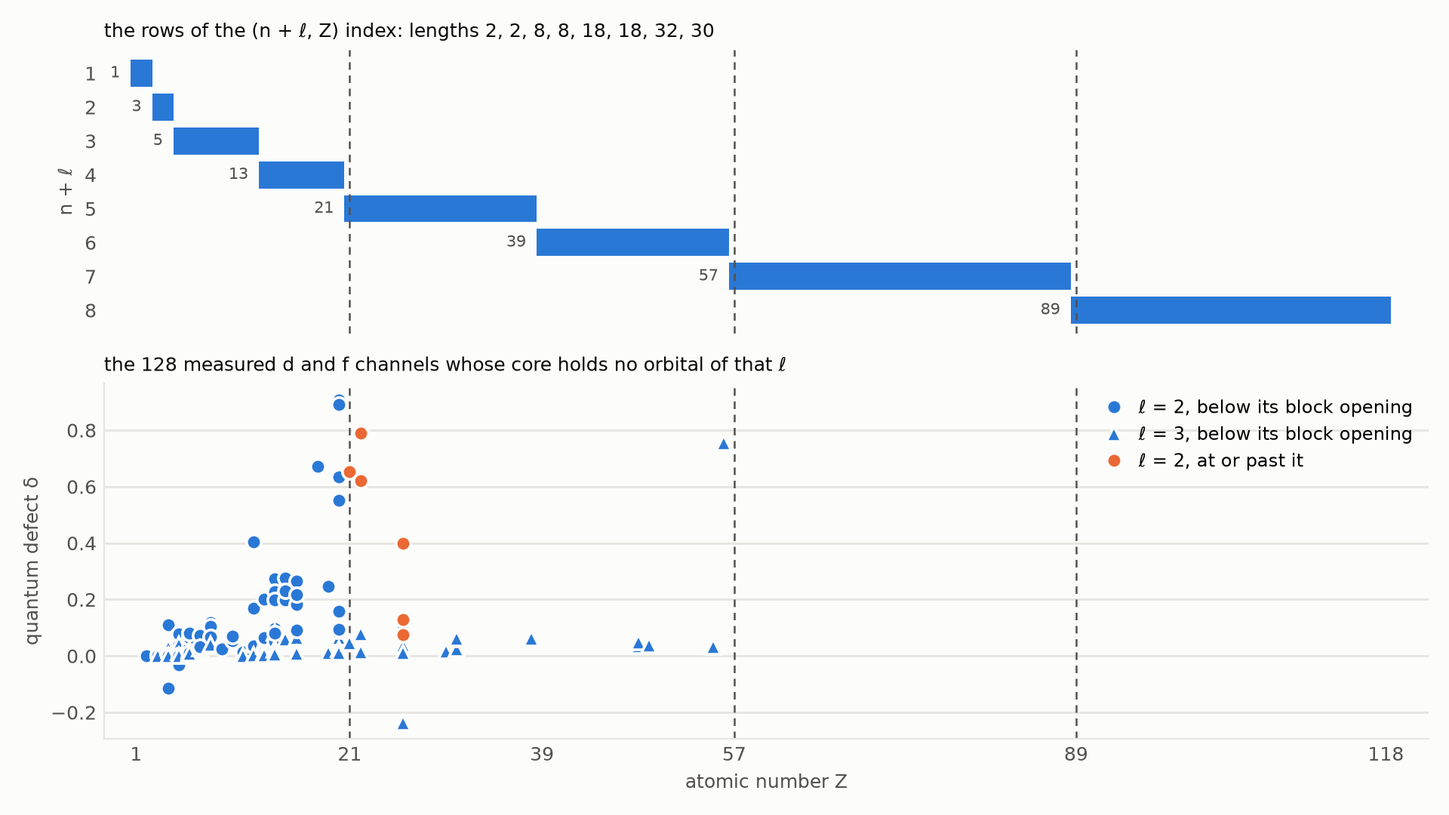
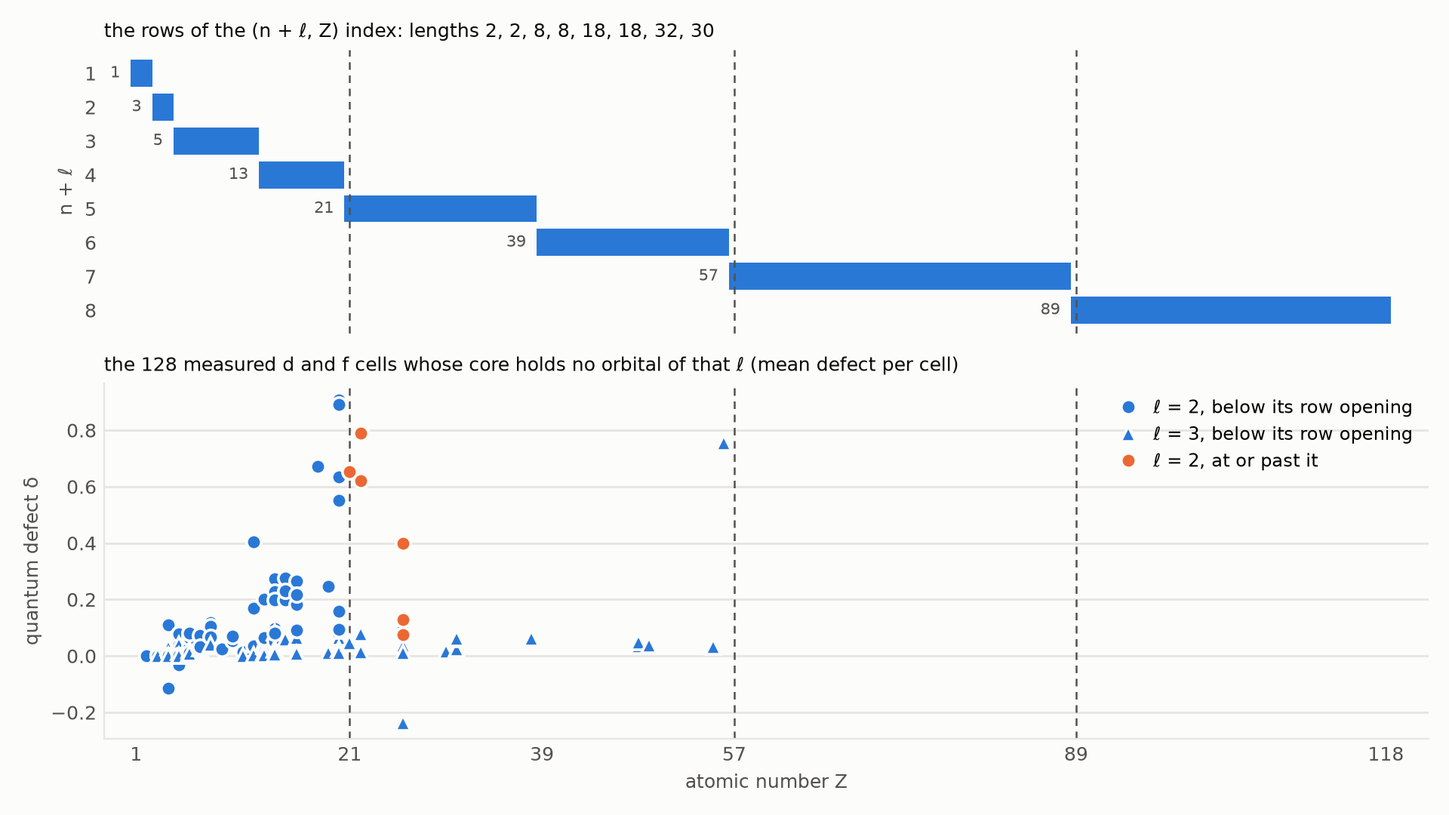
papers: the bracket's rendered page carries no literal markup; the repair is complete
The nine symbols left in code spans are replaced by Unicode forms introduced once each where the
old symbol stood, chosen not to collide with the two-neighbour notation the paper already uses.
Extracted text over all 22 pages: zero underscores, carets or backslashes. Checks 64 and 69 clean,
lint clean, re-verified here.

Claude-Session: https://claude.ai/code/session_015arF96h4V4phUNuBUUKzSG

Changed region(s): [[0.75, 0.4889, 0.9375, 0.5806], [0.25, 0.4278, 0.6562, 0.4583]]

diff --git a/papers/method/07-wall-janet/figures.py b/papers/method/07-wall-janet/figures.py
@@ -5,8 +5,9 @@
 
 Imports check.py by path and draws from its own constructions: periodic_cells(), janet_cells(),
 E_of(), slot(), channel_rows() and coord_rows().  Nothing is drawn by hand; no number is typed
-here that check.py does not also produce.  Figure 1 is not made here -- it is an existing audited
-plate, recorded in FIGURES.tsv.
+here that check.py does not also produce.  Figure 1 was an audited plate until the 2026-09-24
+audit found its title drawn across the first row of cells; it is now computed here from the same
+data (periodic_cells and E_of), with the title kept clear of the cells.
 
 Palette: light surface, recessive hairline grid, slot 1 blue for what an index holds, slot 2
 orange for what its coordinates admit and it denies, a muted red for the physically forbidden.
@@ -52,6 +53,38 @@ def style(ax):
 
 def cell(ax, x, y, col, w=0.86, h=0.86):
     ax.add_patch(Rectangle((x - w / 2, y - h / 2), w, h, facecolor=col, edgecolor="none"))
+
+
+# ------------------------------------------------- figure 1 (the periodic census)
+def fig_periodic_census():
+    """The eighteen-column table as an index: the ninety cells it holds and the thirty-six its own
+    coordinates admit and it denies.  Replaces the audited plate whose title overprinted row 1."""
+    X = check.periodic_cells()
+    S, E = check.E_of(X, ["period", "group"])
+    admitted = sorted(S - set(X))
+    fig, a = plt.subplots(figsize=(8.6, 3.9))
+    for p, g in X:
+        cell(a, g, p, BLUE)
+    for p, g in admitted:
+        cell(a, g, p, RED)
+    a.set_xlim(0.3, 18.7)
+    a.set_ylim(7.7, 0.3)
+    a.set_xticks(range(1, 19))
+    a.set_yticks(range(1, 8))
+    a.set_xlabel("group")
+    a.set_ylabel("period")
+    a.set_title("(period, group):  %d cells held,  %d admitted and denied,  %d = 7 × 18 in the box,  E = %d"
+                % (len(set(X)), len(admitted), len(S), E), fontsize=9.5, color=TEXT, loc="left", pad=10)
+    style(a)
+    for s_ in ("left", "bottom"):
+        a.spines[s_].set_visible(False)
+    a.plot([], [], "s", color=BLUE, ms=8, label="held by the index (%d)" % len(set(X)))
+    a.plot([], [], "s", color=RED, ms=8, label="admitted by its coordinates and denied (%d)" % len(admitted))
+    a.legend(loc="lower center", bbox_to_anchor=(0.5, -0.36), ncol=2, fontsize=8.5,
+             handletextpad=0.4, columnspacing=1.4)
+    fig.tight_layout()
+    fig.savefig(os.path.join(OUT, "fig1-periodic-census.png"), dpi=200)
+    plt.close(fig)
 
 
 # ------------------------------------------------- figure 3 (the two presentations)
@@ -226,11 +259,11 @@ def fig_janet_rows():
     b.grid(True, axis="y", color=GRID, lw=1)
     b.set_axisbelow(True)
     style(b)
-    b.plot([], [], "o", color=BLUE, ms=7, mec=SURFACE, mew=1.3, label="ℓ = 2, below its block opening")
-    b.plot([], [], "^", color=BLUE, ms=7, mec=SURFACE, mew=1.3, label="ℓ = 3, below its block opening")
+    b.plot([], [], "o", color=BLUE, ms=7, mec=SURFACE, mew=1.3, label="ℓ = 2, below its row opening")
+    b.plot([], [], "^", color=BLUE, ms=7, mec=SURFACE, mew=1.3, label="ℓ = 3, below its row opening")
     b.plot([], [], "o", color=ORANGE, ms=7, mec=SURFACE, mew=1.3, label="ℓ = 2, at or past it")
     b.legend(loc="upper right", fontsize=8.5, handletextpad=0.4)
-    b.set_title("the %d measured d and f channels whose core holds no orbital of that ℓ"
+    b.set_title("the %d measured d and f cells whose core holds no orbital of that ℓ (mean defect per cell)"
                 % len(pts), fontsize=9, color=TEXT, loc="left")
     fig.tight_layout()
     fig.savefig(os.path.join(OUT, "fig4-janet-rows.png"), dpi=200)
@@ -297,7 +330,12 @@ def fig_parent_census():
             b.text(j, k - 0.26, lab, ha="center", va="bottom", fontsize=8.5, color=TEXT)
             b.text(j, k + 0.26, "%d row%s" % (cnt[v], "" if cnt[v] == 1 else "s"),
                    ha="center", va="top", fontsize=7.5, color=TEXT2)
-        b.text(2.55, k, "span %s cm⁻¹" % "{:,.0f}".format(vals[-1] - vals[0]),
+        # the span, in exact rational arithmetic on the printed limits, printed to the three
+        # decimals the limits carry -- the same string check.py pins in its span_labels obligation
+        from fractions import Fraction
+        F = lambda x: Fraction(x.replace(",", ""))
+        gap = max(F(x) for x in lims[s]) - min(F(x) for x in lims[s])
+        b.text(2.55, k, "span %s cm⁻¹" % check.span_label(gap),
                va="center", fontsize=8, color=TEXT2)
     b.set_yticks(range(len(four)))
     b.set_yticklabels(four, fontsize=9)
@@ -318,6 +356,7 @@ def fig_parent_census():
 
 if __name__ == "__main__":
     os.makedirs(OUT, exist_ok=True)
+    fig_periodic_census()
     fig_thirty_six()
     fig_two_presentations()
     fig_janet_rows()

diff --git a/papers/method/07-wall-janet/check.py b/papers/method/07-wall-janet/check.py
@@ -617,7 +617,7 @@ def ls_terms_by_difference(l, k):
 
 def term_levels(terms):
     """Levels of a multiset of terms keyed (L, 2S): J runs |L-S| .. L+S, that is 2 min(L, S) + 1 values."""
-    return sum(v * (2 * min(L, S2 // 2) + 1) for (L, S2), v in terms.items())
+    return sum(v * (min(2 * L, S2) + 1) for (L, S2), v in terms.items())
 
 
 TERMS = {}
@@ -1190,9 +1190,9 @@ def section_coordinates(rows):
     c4c = sum(r["Z"] <= 92 and r["charge"] <= 10 and r["l"] <= 4 and single_o[(r["Z"], r["charge"])] for r in rows)
     num("chain_alt", [c2b, c3b])
     num("chain_stated_cuts", [c1, c2c, c3c, c4c])
-    rec("EXHAUSTIVE", "the cuts the source STATES (Z <= 92; spectrum number <= 10; l <= 4) do not produce its counts: they give "
-        "61,152, 12,720, 7,135 and (one-term tabulated core) %d" % c4c,
-        [c2b, c3b] == [12720, 7135] and c2c == 12720 and c3c == 7135 and c4c > 0)
+    rec("EXHAUSTIVE", "the cuts the source STATES (Z <= 92; spectrum number <= 10; l <= 4; one-term core) do not produce its "
+        "counts: they give 61,152, 12,720, 7,950 and 3,550 (tabulated cores); Z <= 83 with spectrum number <= 10 and l <= 4 gives 7,135",
+        [c2b, c3b] == [12720, 7135] and [c1, c2c, c3c, c4c] == [61152, 12720, 7950, 3550], "%s" % [c1, c2c, c3c, c4c])
     # the parent-count obstacles under the TABULATED ground configurations (D8), for the record
     byo = collections.defaultdict(collections.Counter)
     for r in rows:

diff --git a/papers/method/04-seaton/figures.py b/papers/method/04-seaton/figures.py
@@ -48,7 +48,7 @@ def fmt(x, nd=3):
 
 def fig1(rows, st):
     fig, (a, b) = plt.subplots(1, 2, figsize=(9.0, 3.9))
-    # (a) delta2/delta0 for all thirteen, against p, with Seaton's value per l
+    # (a) delta2/delta0 for all thirteen, against p, with the polarisation value per l
     for r in rows:
         col = BLUE if r["p"] == 0 else ORANGE
         a.plot(r["p"], float(r["d2"] / r["d0"]), "o", ms=8, color=col, mec=SURFACE, mew=2, zorder=3)
@@ -90,7 +90,7 @@ def fig1(rows, st):
     b.set_xticks(range(4))
     b.set_xlabel("p")
     b.set_ylabel("ρ = (δ₂/δ₀) / (−ℓ(ℓ+1)/3)")
-    b.set_title("(b) the ratio ρ to the polarisation value, nine series with ℓ ≥ 1", loc="left", fontsize=9.5, color=TEXT)
+    b.set_title("(b) ρ, the nine series with ℓ ≥ 1", loc="left", fontsize=9.5, color=TEXT)
     b.legend(loc="upper right", fontsize=8)
     style(b)
     fig.tight_layout()

diff --git a/papers/method/08-chemical-index/check.py b/papers/method/08-chemical-index/check.py
@@ -24,6 +24,7 @@ import random
 import sys
 import time
 from fractions import Fraction
+from math import factorial as fac
 
 ROOT = "/home/user/Claude-Method-Works"
 HERE = os.path.dirname(os.path.abspath(__file__))

diff --git a/papers/method/01-closure-law/AUDIT.md b/papers/method/01-closure-law/AUDIT.md
@@ -432,46 +432,46 @@ Stanley 1980 (R-C7, optional); Scerri 2020 and Grochala 2018 (R-P3).
 
 | id | severity | where | finding | disposition |
 |---|---|---|---|---|
-| A-1 / R-C1 | BLOCKING | 11, 27, 497–533; SOURCES.md 94–105 | Theorem 15 at c = 2 is Czédli 2023, Thm 2.1; uncited; "new" claim | |
-| A-2 / R-M2 | MAJOR | 27 | "general minimisation is NP-hard" — not proved (seed is an instance of set cover, not shown hard) | |
-| A-3 / R-M2 | MAJOR | 487, 489, 539 | D(d,c) is not a down-set of the product order; "down-set seed law" misnamed | |
-| A-4 | MAJOR | 284; check.py 597–604 | E(Cl(U)) at 2×2×2×2 derived from all-ones boundary, not computed; "independently" false there (direct computation: 65,536, 2 s) | |
-| A-5 | MAJOR | 608, 612; check.py 263–281, 378 | "four hypothesis shapes" — Theorem 4's is a fifth, unguarded; `closed` and other Z3 predicates have no fidelity guard | |
-| A-6 | MINOR | 379 | Prop. 4 Z3 box splits (2 coords)×(1 coord); text does not say so | |
-| A-7 | MINOR | 96 | Figure 1 caption numbers not produced by check.py | |
-| A-8 | MINOR | 610; check.py 979 | selftest control (3) compares two formulas; no decision procedure | |
-| A-9 | MINOR | 610 | "14 failing pairs" are ordered; Table 1 says 7 | |
-| A-10 | MINOR | 606, 612 | "four integer obligations" (three + a refutation); Lemmas 1–3, Cor. 1 have no exhaustive family | |
-| A-11 / R-P5 | MINOR | 23, 100, 104 | "Two illustrations" (three); "Gregorian calendar" (common year; leap year E = 6); "every speaker of English" | |
-| A-12 | MINOR | 264 | meet-irreducibles "grow linearly" — 1.50…1.25 per cell, unproved | |
-| A-13 | MINOR | 11, 36 | "6 refutations by explicit witness" — one is by solver `sat` | |
-| A-14 / R-M10 | MINOR | 27 | Birkhoff sentence garbled; does not name the chains | |
-| A-15 / R-P1 | MINOR | 106 | which 28 f-block elements are detached is not stated | |
-| A-16 | MAJOR | Fig. 2, p. 5 | plate title overprints the period-1 cells; y-axis labels 1,3,5,7 only | |
-| A-17 | MINOR | Fig. 3 | t = 5 row drawn outside Box(X) | |
-| A-18 | MINOR | 537 | "seventh … lies off both curves" — it is not plotted | |
-| A-19 | MAJOR | pp. 1–23 | literal `_`, `^{}` in code-span mathematics throughout | |
-| A-20 | MAJOR | pp. 11, 17, 22–23 | literal `\|` in Table 1/2 headers and §10 rows | |
-| A-21 | MAJOR | pp. 21–23 | §10 table: p. 21 two-thirds blank; row "Proposition 3" split across pages | |
-| A-22 | MINOR | pp. 4–5, 10, 12, 20 | stray "Figure N" line under every image; Fig. 1 separated from caption | |
-| A-23 | MINOR | pp. 6, 14, 17 | (i)–(iii) and (a)/(b) render as 1./2./3.; proofs cite the letters | |
-| R-M1 | MAJOR | 68, 441 | seed(X) = minimum generating set of the lattice X (by Thm 2) never stated | |
-| R-M3 | MINOR | 446 | Thm 12(b) uses φ^G outside its domain before (a) | |
-| R-M4 | MINOR | 467 | Thm 13 "constant on [t,a]" needs Lemma 1 spelled out | |
-| R-M5 | MINOR | 214 | Thm 5 statement circular ("alphabets of S ⊆ A₁ × A₂") | |
-| R-M6 | MINOR | 208 | "the set it cuts is therefore the smallest" — empty clause | |
-| R-M7 | MINOR | 505, 511 | Thm 15 "Equivalently" needs k ≥ c; upper bound should assume a generating G | |
-| R-M8 | MINOR | 345 | ⊑ is a preorder for d > 2; "chain" needs the qualifier | |
-| R-M9 | MINOR | 252, 264 | meet-irreducible generation needs U as empty intersection; top excluded | |
-| R-P2 | MINOR | 23, 106 | "not of chemistry" overstated — of the coordinatisation | |
-| R-P3 | MINOR | 108 | helium claim uncited (Scerri 2020; Grochala 2018) | |
-| R-P4 | MINOR | 387, 400, 435 | "coupling" language vs Δ ⊆ ℤ³ without the parity condition | |
-| R-C2 | MAJOR | 25, 188 | E(X) = 0 is not "global consistency"; it is decomposability into a staircase network; Dechter 1992 misused | |
-| R-C3 | MAJOR | 479 | Carathéodory/breadth attributed to Queyranne–Tardella 2008; correct sources Jamison / van de Vel 1993 / Q–T 2017; Carathéodory 1911 uncited | |
-| R-C4 | MINOR | 25, 188 | Bergman 1977 vs Baker–Pixley emphasis; add Veinott 1989 | |
-| R-C5 | MINOR | 531 | LYM inequality omitted between Sperner and Bollobás | |
-| R-C6 | MINOR | 62 | cite Deville et al. where "staircase" is introduced | |
-| R-C7 | MINOR | 487 | D(d,c) = L(d, c−1); check the generating-set literature | |
+| A-1 / R-C1 | BLOCKING | 11, 27, 497–533; SOURCES.md 94–105 | Theorem 15 at c = 2 is Czédli 2023, Thm 2.1; uncited; "new" claim | **FIXED.** Czédli 2023 verified on the arXiv full text (Thm 2.1 = the c = 2 case, both halves by the Sperner antichain argument); his arXiv:2308.15625 Thm 2.4 + Obs 3.1 (Griggs–Stahl–Trotter) covers every c, so Theorem 15 is CITED in full, headed "Czédli", with the paper's proof kept as a second proof; abstract, §0, §3, §9, §10, references, check.py CITED row and SOURCES.md re-scoped — the paper claims Theorems 13–14 and the linear-law refutation only. One discrepancy recorded: Czédli 2023b table (4.30) prints 18 at (5-chain, 2023) where its Thm 2.4 and the law give 17; check.py prints both. |
+| A-2 / R-M2 | MAJOR | 27 | "general minimisation is NP-hard" — not proved (seed is an instance of set cover, not shown hard) | **FIXED.** §0 and §9 now say seed is an instance of minimum set cover, NP-complete (Karp 1972) — a bound from above, no hardness claimed, no closed form beyond the two families. |
+| A-3 / R-M2 | MAJOR | 487, 489, 539 | D(d,c) is not a down-set of the product order; "down-set seed law" misnamed | **FIXED.** "ordered simplex" throughout, Theorem 14 retitled "the simplex seed law", the (1,1)/(0,1) counterexample stated, D(d,c) identified with L(d, c−1) (Stanley 1980); §10 row renamed. |
+| A-4 | MAJOR | 284; check.py 597–604 | E(Cl(U)) at 2×2×2×2 derived from all-ones boundary, not computed; "independently" false there (direct computation: 65,536, 2 s) | **FIXED.** check.py computes stair() on the family at every ambient (|ℛ(Cl)| = 65,536 at 2×2×2×2, ~2 s) and prints it; the n ≤ 12 branch is gone; Theorem 7's status and the §10 row say the column is computed directly. |
+| A-5 | MAJOR | 608, 612; check.py 263–281, 378 | "four hypothesis shapes" — Theorem 4's is a fifth, unguarded; `closed` and other Z3 predicates have no fidelity guard | **FIXED.** Two new guards: Theorem 4's hypothesis satisfiable non-trivially at 3×3 and 2×2×2; the Z3 closure predicate evaluated against is_closed on 300 random sets over five shapes (0 disagreements). §10 names the three guarded predicates, lists the unguarded transcriptions, and says fourteen non-vacuity checks over five shapes. 20 guards. |
+| A-6 | MINOR | 379 | Prop. 4 Z3 box splits (2 coords)×(1 coord); text does not say so | **FIXED.** Wording as resolved: second factor one-dimensional; the exhaustive family covers two two-dimensional factors. |
+| A-7 | MINOR | 96 | Figure 1 caption numbers not produced by check.py | **FIXED.** check.py row "Figure 1: the five-cell index in 5x5" (|ℛ| = 9, E = 4, both φ printed); figures.py draws from check.FIG1_INDEX. |
+| A-8 | MINOR | 610; check.py 979 | selftest control (3) compares two formulas; no decision procedure | **FIXED.** Control (3) is now seed_bruteforce(2⁵, 5) by direct closure: every subset of size < 4 fails, four cells generate; §10 says each control is a decision procedure. |
+| A-9 | MINOR | 610 | "14 failing pairs" are ordered; Table 1 says 7 | **FIXED.** Loop is i < j; 7 unordered pairs; §10 says so. |
+| A-10 | MINOR | 606, 612 | "four integer obligations" (three + a refutation); Lemmas 1–3, Cor. 1 have no exhaustive family | **FIXED.** "three integer obligations and one integer refutation"; Lemmas 1–3 and Corollary 1 "carry written proofs only", the exhaustive list starts at Proposition 1. |
+| A-11 / R-P5 | MINOR | 23, 100, 104 | "Two illustrations" (three); "Gregorian calendar" (common year; leap year E = 6); "every speaker of English" | **FIXED.** "Three illustrations"; "A common year of the Gregorian calendar"; "the rhyme taught beside the calendar". |
+| A-12 | MINOR | 264 | meet-irreducibles "grow linearly" — 1.50…1.25 per cell, unproved | **FIXED.** Clause dropped; the caption reports the counts and says no law is claimed. |
+| A-13 | MINOR | 11, 36 | "6 refutations by explicit witness" — one is by solver `sat` | **FIXED.** Abstract: "five by explicit witness and one by solver"; the REFUTATION status word admits a solver's satisfying assignment. |
+| A-14 / R-M10 | MINOR | 27 | Birkhoff sentence garbled; does not name the chains | **FIXED.** Rewritten as resolved: L embeds in {0,1}ᴶ, one two-element chain per join-irreducible (Birkhoff 1967); the requirement is only that no two chains be folded. |
+| A-15 / R-P1 | MINOR | 106 | which 28 f-block elements are detached is not stated | **FIXED.** The 28 named (Ce–Lu, Th–Lr), La and Ac in group 3 so periods 6 and 7 are full. |
+| A-16 | MAJOR | Fig. 2, p. 5 | plate title overprints the period-1 cells; y-axis labels 1,3,5,7 only | **FIXED.** Figure 2 regenerated by figures.py fig_periodic() from check.periodic_cells()/stair(): no text over the grid, all seven periods labelled, legend below; FIGURES.tsv records the replaced plate's md5 and the reason; caption says the figure is computed. |
+| A-17 | MINOR | Fig. 3 | t = 5 row drawn outside Box(X) | **FIXED.** Grid trimmed to the 4×5 box; caption names the box. |
+| A-18 | MINOR | 537 | "seventh … lies off both curves" — it is not plotted | **FIXED.** "a seventh, 4² with seed 4, and an eighth, 5² with seed 5, are not plotted." |
+| A-19 | MAJOR | pp. 1–23 | literal `_`, `^{}` in code-span mathematics throughout | **FIXED.** Every mathematics code span rewritten as plain Unicode (mechanical pass, then hand rewrites where no glyph exists: φᵢⱼ[X] for a named boundary function, ∏ᵢ Aᵢ for the product, n = |U| and 2ⁿ, cells p ≠ r, u/v/w in the §8 proofs, Pⱼ/Zⱼ in Theorem 15, xᵢ ≥ xᵢ₊₁ for the simplex); a text scan of all 27 rendered pages finds no _, ^, \\ or *. |
+| A-20 | MAJOR | pp. 11, 17, 22–23 | literal `\|` in Table 1/2 headers and §10 rows | **FIXED.** ∣ (U+2223) in every table cell that carries a bar (Table 1 and 2 headers, §10 rows for Theorems 7, 10 and the region). |
+| A-21 | MAJOR | pp. 21–23 | §10 table: p. 21 two-thirds blank; row "Proposition 3" split across pages | **FIXED.** The §10 table is split in two (§2–§5; §6–§9); no row is split; the second table moves whole to the next page and leaves about a quarter of p. 23 blank, within the finding's criterion. |
+| A-22 | MINOR | pp. 4–5, 10, 12, 20 | stray "Figure N" line under every image; Fig. 1 separated from caption | **FIXED.** Empty alt text and the caption in the image's own paragraph: no stray "Figure N" line; Figure 1 and its caption share p. 5. |
+| A-23 | MINOR | pp. 6, 14, 17 | (i)–(iii) and (a)/(b) render as 1./2./3.; proofs cite the letters | **FIXED.** Labels written **(i)**, **(a)** and the clauses separated as blockquote paragraphs, so the proofs' "(i)", "(a)" match the page. |
+| R-M1 | MAJOR | 68, 441 | seed(X) = minimum generating set of the lattice X (by Thm 2) never stated | **FIXED.** Gloss at D8 (seed(X) = least generating size of the lattice X, by Theorem 2) and at the opening of §9; this is what makes the Czédli identification exact. |
+| R-M3 | MINOR | 446 | Thm 12(b) uses φ^G outside its domain before (a) | **FIXED.** Clause (b) reads "given (a)", with the note that (a) makes Box(G) = Box(X). |
+| R-M4 | MINOR | 467 | Thm 13 "constant on [t,a]" needs Lemma 1 spelled out | **FIXED.** The two lines written: t″ ≤ t by maximality, then Lemma 1 sandwiches the three values. |
+| R-M5 | MINOR | 214 | Thm 5 statement circular ("alphabets of S ⊆ A₁ × A₂") | **FIXED.** "let S be a finite non-empty set of pairs with observed alphabets A₁ = π₁(S), A₂ = π₂(S)". |
+| R-M6 | MINOR | 208 | "the set it cuts is therefore the smallest" — empty clause | **FIXED.** Clause deleted. |
+| R-M7 | MINOR | 505, 511 | Thm 15 "Equivalently" needs k ≥ c; upper bound should assume a generating G | **FIXED.** "for k ≥ c" added (k < c handled by Proposition 5); the upper bound opens "Suppose G, of size k, generates Q(c, d)". |
+| R-M8 | MINOR | 345 | ⊑ is a preorder for d > 2; "chain" needs the qualifier | **FIXED.** ⊑ stated as a partial order at d = 2 and a preorder for d > 2; "chain in ⊑" defined as any two cells comparable. |
+| R-M9 | MINOR | 252, 264 | meet-irreducible generation needs U as empty intersection; top excluded | **FIXED.** Caption: members other than U; the family is generated by them together with U, the empty intersection. |
+| R-P2 | MINOR | 23, 106 | "not of chemistry" overstated — of the coordinatisation | **FIXED.** "a property of the coordinatisation, not of the elements"; "not a defect in the elements", with the shell structure named as what the coordinates do not carry. |
+| R-P3 | MINOR | 108 | helium claim uncited (Scerri 2020; Grochala 2018) | **FIXED.** Scerri 2020 and Grochala 2018 cited; IUPAC's group-18 placement named. |
+| R-P4 | MINOR | 387, 400, 435 | "coupling" language vs Δ ⊆ ℤ³ without the parity condition | **FIXED.** "coupling" dropped at both places; §8 kept mathematical (the parity condition is not introduced). |
+| R-C2 | MAJOR | 25, 188 | E(X) = 0 is not "global consistency"; it is decomposability into a staircase network; Dechter 1992 misused | **FIXED.** §0 and §3 rewritten: E = 0 is binary decomposability into staircase constraints (Montanari 1974), global consistency then by van Beek & Dechter 1995; the {(0,1),(1,0)} counterexample at E = 2 printed; Dechter 1992 removed from text, references and check.py's CITED row; SOURCES.md records that the source's Dechter attribution is not carried. |
+| R-C3 | MAJOR | 479 | Carathéodory/breadth attributed to Queyranne–Tardella 2008; correct sources Jamison / van de Vel 1993 / Q–T 2017; Carathéodory 1911 uncited | **FIXED.** Jamison-Waldner 1982, van de Vel 1993 and Queyranne–Tardella 2017 cited (the last verified: MOR 42(2), 495–516); Carathéodory 1911 cited at the definition; the 2008 paper kept only for the hull statement in §3. |
+| R-C4 | MINOR | 25, 188 | Bergman 1977 vs Baker–Pixley emphasis; add Veinott 1989 | **FIXED.** Forward direction attributed to Baker & Pixley 1975, Bergman 1977 to the name and the converse, Veinott 1989 added beside Topkis and Queyranne–Tardella; abstract reworded. |
+| R-C5 | MINOR | 531 | LYM inequality omitted between Sperner and Bollobás | **FIXED.** "by way of the LYM inequality (Lubell 1966)"; Lubell 1966 in the references. |
+| R-C6 | MINOR | 62 | cite Deville et al. where "staircase" is introduced | **FIXED.** Deville, Barette & Van Hentenryck 1999 cited at D5. |
+| R-C7 | MINOR | 487 | D(d,c) = L(d, c−1); check the generating-set literature | **FIXED.** D(d,c) = L(d, c−1) named with Stanley 1980; the paper states that Theorem 14 is not a case of Czédli's direct-power theorem and that no statement of it in the literature is known (Czédli's generating-set papers checked; Young's-lattice literature not searched further — SOURCES.md says so). |
 
 Counts: **1 BLOCKING, 11 MAJOR, 28 MINOR** (40 findings; A-1/R-C1, A-2/R-M2, A-3/R-M2, A-11/R-P5,
 A-14/R-M10 and A-15/R-P1 are each one row).
@@ -480,3 +480,35 @@ Re-verification commands: `export PATH=/home/user/Claude-Method-Works/method/bin
 cd papers/method/01-closure-law; python3 check.py; python3 check.py --selftest;
 python3 ../lint.py .; python3 ../render.py .` — and for A-4, the two-second direct computation of
 `stair` on the 732 characteristic vectors at `2×2×2×2`, which returned 65,536.
+
+---
+
+## Repair record — 2026-09-24
+
+Repaired by the drafter against every finding above; nothing above was deleted or rewritten.
+**Dispositions: 40 FIXED, 0 DECLINED** (BLOCKING 1/1, MAJOR 11/11, MINOR 28/28).
+
+**Czédli verified.** arXiv:2303.10790v3 read in full: Theorem 2.1 is the c = 2 case of Theorem 15,
+proved by the same two-sided Sperner argument. The later papers the audit named (arXiv:2309.13783,
+2401.00842) do not cover products of chains, but arXiv:2308.15625 (Ural Math. J. 10(1), 2024) does —
+Theorem 2.4 (k ↦ G_min(Dᵏ) is the left adjoint of n ↦ S(J(D), n)) with Observation 3.1(d) and the
+Griggs–Stahl–Trotter count gives c − 2 + m(d) for every c. Theorem 15 is therefore CITED in full and the
+paper claims only Theorems 13–14 and the linear-law refutation. One discrepancy recorded, not repaired:
+Czédli 2023b's table (4.30) prints 18 for the five-element chain at d = 2022, 2023, where its own
+Theorem 2.4 (p = 3, f*(2023) = 14) and the law give 17; `check.py` prints both.
+
+**What changed.** `PAPER.md`: every mathematics code span rewritten as plain Unicode (A-19, A-20); §0,
+§3 and §9 rewritten for A-1, A-2, R-C2, R-C3, R-C4; every other finding at its line; the §10 record in
+two tables; date 24 September 2026. `check.py` (never weakened): Theorem 4 non-vacuity guard (2 rows),
+closure-predicate fidelity guard, |ℛ(Cl(U))| computed directly at every ambient, Figure 1 row, 5² box,
+the law at (5, 2023), eight CITED rows, selftest controls (2) and (3) replaced by decision procedures,
+`periodic_cells()` factored out for `figures.py`. `figures.py`: computed Figure 2 (`fig_periodic`),
+Figure 3 grid trimmed. `FIGURES.tsv`: rewritten (two new md5s, replaced plate recorded). `SOURCES.md`:
+novelty section, Czédli verification and discrepancy, R-C2/R-C3 attributions, guard figures, figures.
+
+**Re-verification.** `python3 check.py`: 134 rows, 0 failures (20 GUARD, 53 MACHINE-CHECKED,
+47 EXHAUSTIVE, 6 REFUTATION, 8 CITED), exit 0. `--selftest`: 137 rows, three controls refuted, exit 0.
+`lint.py`: 0 hits. `render.py`: 27 pages. Every page rasterised and its text scanned: no literal
+underscore, caret, backslash or asterisk; the HTML screenshotted with headless Chromium per
+BRIEF-AUDIT step 6.
+

diff --git a/papers/method/03-bracket/AUDIT.md b/papers/method/03-bracket/AUDIT.md
@@ -615,6 +615,16 @@ interpretations 10–13.
 
 **Lint, render, typography.** `lint.py`: 0 hits. `render.py`: 22 pages (18 before the repair). The
 rendered HTML was screenshotted with headless Chromium and read: Table 1 and Table 2 headers intact, Table 6
-intact with its new columns, no caret, underscore or brace in prose; inline symbols that have no Unicode
-subscript (ν_fail, ν_V, r_adm, E_lo, E_hi, δ_lo, δ_hi, δ_∞, R_M) are set in backticks as the contract allows.
+intact with its new columns, no caret, underscore or brace in prose.
+
+**Second pass (coordinator's note, same day): no code spans for symbols.** The first pass had set nine
+symbols in backticks, which PAPER-SPEC §9 reserves for code, and the rendered PDF's text carried fifty
+literal underscores. Every one is replaced by a Unicode form, each introduced once where the old symbol
+stood: the ordered defects and interval ends δₗₒ ≤ δₕᵢ and Eₗₒ ≤ Eₕᵢ (D5; chosen so as not to collide with
+δ₋/δ₊ and E₋/E₊, which name the neighbours), the admissibility ratio rₐ (D7), the critical depth νᶜ (D11,
+Table 1), the resolution bound νᵛ (D12), the reduced-mass Rydberg constant Rₘ (§8), the Ritz limit δ₀ in
+the worked deduction (the symbol §2 already uses), and ΔE for the energy displacement (Corollary 2). Source
+and PDF text now carry zero underscores (pypdf extraction over all 22 pages: 0 "_", 0 "^", 0 "\\"), lint 0
+hits, `check.py` 64/0 and `--selftest` 69/0 unchanged; the backticks that remain are `unsat` and the tag
+letters of §10, which are code.
 
